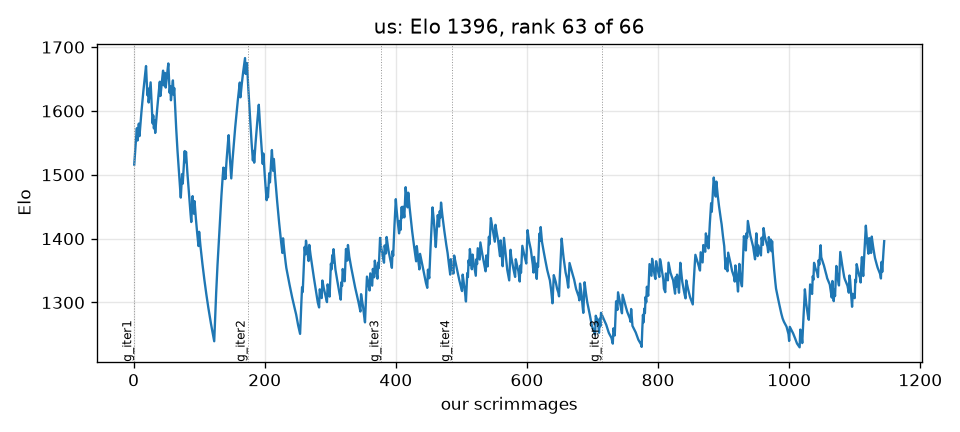
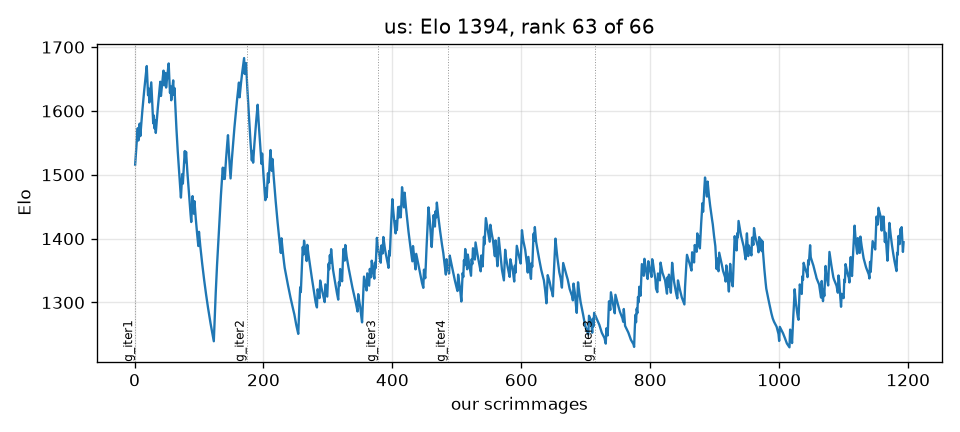
Block 24 logged
Claude-Session: https://claude.ai/code/session_01CTUHPRaZ9DbYUkpWKYf2Y2

diff --git a/BENCHMARK.md b/BENCHMARK.md
@@ -61,7 +61,7 @@ every recorded block; the tier is the most recent build's record against that op
 | `EmaPajic.Mark3` | EmaPajic_Battlecode-2020 (c060a22) | - | - | untested |  |
 | `EmaPajic.Mark4` | EmaPajic_Battlecode-2020 (c060a22) | - | - | untested |  |
 | `EmaPajic.Mark5` | EmaPajic_Battlecode-2020 (c060a22) | - | - | untested |  |
-| `EmaPajic.Qualifications` | EmaPajic_Battlecode-2020 (c060a22) | 0 | 12 | locked | 20 0 15 0 |
+| `EmaPajic.Qualifications` | EmaPajic_Battlecode-2020 (c060a22) | 0 | 12 | locked | 20 0 20 0 |
 | `EmaPajic.SeedingBot` | EmaPajic_Battlecode-2020 (c060a22) | - | - | untested |  |
 | `GabrielDWu.basicbot` | GabrielDWu_blezers-battlecode2020 (c0283f8) | - | - | untested |  |
 | `GabrielDWu.blezerbot` | GabrielDWu_blezers-battlecode2020 (c0283f8) | - | - | untested |  |
@@ -79,7 +79,7 @@ every recorded block; the tier is the most recent build's record against that op
 | `IvanGeffner.dronecrunchplus` | IvanGeffner_battlecode2020 (bc7dbca) | - | - | untested |  |
 | `IvanGeffner.ecoplayer` | IvanGeffner_battlecode2020 (bc7dbca) | - | - | untested |  |
 | `IvanGeffner.ecoplus` | IvanGeffner_battlecode2020 (bc7dbca) | - | - | untested |  |
-| `IvanGeffner.finalbota` | IvanGeffner_battlecode2020 (bc7dbca) | 18 | 17 | locked | 0 8 11 18 |
+| `IvanGeffner.finalbota` | IvanGeffner_battlecode2020 (bc7dbca) | 18 | 17 | locked | 0 8 12 18 |
 | `IvanGeffner.finalbotb` | IvanGeffner_battlecode2020 (bc7dbca) | - | - | untested |  |
 | `IvanGeffner.finalbotc` | IvanGeffner_battlecode2020 (bc7dbca) | - | - | untested |  |
 | `IvanGeffner.landscaperop` | IvanGeffner_battlecode2020 (bc7dbca) | - | - | untested |  |
@@ -170,11 +170,11 @@ every recorded block; the tier is the most recent build's record against that op
 | `benzyx.espada` | benzyx_bc20-waterloo (05df2e7) | - | - | untested |  |
 | `benzyx.firstplayer` | benzyx_bc20-waterloo (05df2e7) | - | - | untested |  |
 | `benzyx.kurobot` | benzyx_bc20-waterloo (05df2e7) | - | - | untested |  |
-| `benzyx.seeding` | benzyx_bc20-waterloo (05df2e7) | 40 | 15 | target | 25 17 64 40 |
+| `benzyx.seeding` | benzyx_bc20-waterloo (05df2e7) | 40 | 15 | target | 25 17 62 40 |
 | `benzyx.tortuga` | benzyx_bc20-waterloo (05df2e7) | - | - | untested |  |
 | `charboltron.master_player` | charboltron_pdx_battlecode_2020_team_11 (f78f1e3) | - | - | untested |  |
 | `charboltron.team11newbot` | charboltron_pdx_battlecode_2020_team_11 (f78f1e3) | 100 | 1 | peer(>90 once) | 100 |
-| `cormackikkert.whyPermutator` | cormackikkert_battlecode2020 (4d230c4) | 40 | 15 | target | 25 17 39 40 |
+| `cormackikkert.whyPermutator` | cormackikkert_battlecode2020 (4d230c4) | 40 | 15 | target | 25 17 38 40 |
 | `cormackikkert.whyPermutatorOld` | cormackikkert_battlecode2020 (4d230c4) | - | - | untested |  |
 | `cosimogonnelli.Team3player` | cosimogonnelli_CS454-554-SE (d7dc657) | 80 | 5 | peer | 80 |
 | `cs454-w20-team3.oldbot` | cs454-w20-team3_team3-bot (502c334) | - | - | untested |  |
@@ -202,7 +202,7 @@ every recorded block; the tier is the most recent build's record against that op
 | `kylittle.deliriumv1` | kylittle_DeliriumBattlecode (17a94dd) | - | - | untested |  |
 | `kylittle.qualsbot` | kylittle_DeliriumBattlecode (17a94dd) | - | - | untested |  |
 | `kylittle.qualsbot2` | kylittle_DeliriumBattlecode (17a94dd) | 100 | 1 | peer(>90 once) | 100 |
-| `laurenschneider.pdx_team_one` | laurenschneider_battlecode20-PDXTeamOne (2965376) | 14 | 14 | locked | 0 50 38 14 |
+| `laurenschneider.pdx_team_one` | laurenschneider_battlecode20-PDXTeamOne (2965376) | 14 | 14 | locked | 0 50 41 14 |
 | `lfchain.bigBudsBot` | lfchain_Battlecode2020 (b026153) | 100 | 1 | peer(>90 once) | 100 |
 | `lfchain.fBot` | lfchain_Battlecode2020 (b026153) | - | - | untested |  |
 | `lfchain.jBot` | lfchain_Battlecode2020 (b026153) | - | - | untested |  |
@@ -245,7 +245,7 @@ every recorded block; the tier is the most recent build's record against that op
 | `mvpatel2000.oldhades` | mvpatel2000_Battlecode2020 (554943e) | - | - | untested |  |
 | `mvpatel2000.poseidon` | mvpatel2000_Battlecode2020 (554943e) | - | - | untested |  |
 | `mvpatel2000.quail` | mvpatel2000_Battlecode2020 (554943e) | - | - | untested |  |
-| `mvpatel2000.qual` | mvpatel2000_Battlecode2020 (554943e) | 13 | 15 | locked | 0 8 27 13 |
+| `mvpatel2000.qual` | mvpatel2000_Battlecode2020 (554943e) | 13 | 15 | locked | 0 8 25 13 |
 | `mvpatel2000.qualAttacc` | mvpatel2000_Battlecode2020 (554943e) | - | - | untested |  |
 | `mvpatel2000.qualNoAtacc` | mvpatel2000_Battlecode2020 (554943e) | - | - | untested |  |
 | `mvpatel2000.seeding` | mvpatel2000_Battlecode2020 (554943e) | - | - | untested |  |
@@ -279,10 +279,10 @@ every recorded block; the tier is the most recent build's record against that op
 | `poortho.rush` | poortho_battlecode-2020 (ebbd61e) | - | - | untested |  |
 | `poortho.rush_bot` | poortho_battlecode-2020 (ebbd61e) | - | - | untested |  |
 | `poortho.stable_miner1` | poortho_battlecode-2020 (ebbd61e) | - | - | untested |  |
-| `poortho.stable_seeding_bot` | poortho_battlecode-2020 (ebbd61e) | 31 | 16 | target | 0 17 18 31 |
+| `poortho.stable_seeding_bot` | poortho_battlecode-2020 (ebbd61e) | 31 | 16 | target | 0 17 16 31 |
 | `ps789.dennisTestPlayer` | ps789_AZBattlecode (f1d54ab) | - | - | untested |  |
 | `ps789.phillipTestPlayer` | ps789_AZBattlecode (f1d54ab) | - | - | untested |  |
-| `ronniesong0809.finalbota` | ronniesong0809_battlecode20-RADS (1cee065) | 7 | 15 | locked | 0 18 17 7 |
+| `ronniesong0809.finalbota` | ronniesong0809_battlecode20-RADS (1cee065) | 7 | 15 | locked | 0 18 16 7 |
 | `ronniesong0809.team4enemy` | ronniesong0809_battlecode20-RADS (1cee065) | - | - | untested |  |
 | `ronniesong0809.team4player` | ronniesong0809_battlecode20-RADS (1cee065) | - | - | untested |  |
 | `rsandzimier.PlayerAlpha` | rsandzimier_battlecode2020 (8d856c3) | - | - | untested |  |
@@ -292,7 +292,7 @@ every recorded block; the tier is the most recent build's record against that op
 | `rzhan11.kryptonite` | rzhan11_Battlecode2020 (3cc4b50) | - | - | untested |  |
 | `rzhan11.landscaper_rush_bot` | rzhan11_Battlecode2020 (3cc4b50) | - | - | untested |  |
 | `rzhan11.orig_rush_bot` | rzhan11_Battlecode2020 (3cc4b50) | - | - | untested |  |
-| `rzhan11.quals_bot` | rzhan11_Battlecode2020 (3cc4b50) | 12 | 16 | locked | 0 17 3 12 |
+| `rzhan11.quals_bot` | rzhan11_Battlecode2020 (3cc4b50) | 12 | 16 | locked | 0 17 6 12 |
 | `rzhan11.rush_bot` | rzhan11_Battlecode2020 (3cc4b50) | - | - | untested |  |
 | `rzhan11.seeding` | rzhan11_Battlecode2020 (3cc4b50) | - | - | untested |  |
 | `rzhan11.sprint` | rzhan11_Battlecode2020 (3cc4b50) | - | - | untested |  |
@@ -309,7 +309,7 @@ every recorded block; the tier is the most recent build's record against that op
 | `uvafan.v12_quals_bot` | uvafan_bc20 (86fe290) | - | - | untested |  |
 | `uvafan.v12_quals_bot_tuned` | uvafan_bc20 (86fe290) | - | - | untested |  |
 | `uvafan.v13_post_quals` | uvafan_bc20 (86fe290) | - | - | untested |  |
-| `uvafan.v14_final_bot` | uvafan_bc20 (86fe290) | 0 | 14 | locked | 0 8 0 0 |
+| `uvafan.v14_final_bot` | uvafan_bc20 (86fe290) | 0 | 14 | locked | 0 8 3 0 |
 | `uvafan.v14_final_bot_tuned` | uvafan_bc20 (86fe290) | - | - | untested |  |
 | `uvafan.v2_better_turtle` | uvafan_bc20 (86fe290) | - | - | untested |  |
 | `uvafan.v3_lattice` | uvafan_bc20 (86fe290) | - | - | untested |  |
@@ -325,7 +325,7 @@ every recorded block; the tier is the most recent build's record against that op
 | `willBoyd8.droideka` | willBoyd8_BattleDroid (4b1d4ad) | - | - | untested |  |
 | `willBoyd8.empire` | willBoyd8_BattleDroid (4b1d4ad) | - | - | untested |  |
 | `willBoyd8.mouse` | willBoyd8_BattleDroid (4b1d4ad) | - | - | untested |  |
-| `winkelmantanner.tannerplayer` | winkelmantanner_battlecode2020_the-levee-builders (7f49f11) | 23 | 13 | target | 0 25 19 23 |
+| `winkelmantanner.tannerplayer` | winkelmantanner_battlecode2020_the-levee-builders (7f49f11) | 23 | 13 | target | 0 25 20 23 |
 | `wpine215.stardustv1` | wpine215_battlecode (d570d57) | - | - | untested |  |
 | `wpine215.stardustv2` | wpine215_battlecode (d570d57) | 65 | 17 | peer | 0 30 46 65 |
 | `yaonam.Robot_1` | yaonam_battlecode2020 (bb363f5) | 62 | 8 | peer | 62 |

diff --git a/progress/ELO.md b/progress/ELO.md
@@ -1,20 +1,20 @@
 # Elo ladder
 
-1145 scrimmages (ours only); K=32 from 1500; our team is **us**: rank 63 of 66 rated bots, Elo 1396, 1145 games; 0 bots not yet met.
+1193 scrimmages (ours only); K=32 from 1500; our team is **us**: rank 63 of 66 rated bots, Elo 1394, 1193 games; 0 bots not yet met.
 
 | rank | bot | Elo | games | W-L (theirs) |
 |---|---|---|---|---|
-| 1 | uvafan.v14_final_bot | 1777 | 64 | 63-1 |
-| 2 | awesomelemonade.citricsky | 1773 | 71 | 69-2 |
-| 3 | AngusRitossa.newbot | 1764 | 67 | 64-3 |
-| 4 | rzhan11.quals_bot | 1725 | 66 | 61-5 |
-| 5 | IvanGeffner.finalbota | 1675 | 71 | 63-8 |
-| 6 | EmaPajic.Qualifications | 1656 | 68 | 61-7 |
-| 7 | ronniesong0809.finalbota | 1640 | 71 | 61-10 |
-| 8 | poortho.stable_seeding_bot | 1602 | 65 | 52-13 |
-| 9 | winkelmantanner.tannerplayer | 1566 | 61 | 49-12 |
-| 10 | mvpatel2000.qual | 1565 | 72 | 58-14 |
-| 11 | battlecode20-team4.finalbota | 1519 | 67 | 52-15 |
+| 1 | awesomelemonade.citricsky | 1785 | 74 | 72-2 |
+| 2 | AngusRitossa.newbot | 1777 | 71 | 68-3 |
+| 3 | uvafan.v14_final_bot | 1755 | 67 | 65-2 |
+| 4 | rzhan11.quals_bot | 1696 | 67 | 61-6 |
+| 5 | IvanGeffner.finalbota | 1662 | 74 | 65-9 |
+| 6 | ronniesong0809.finalbota | 1660 | 75 | 65-10 |
+| 7 | poortho.stable_seeding_bot | 1630 | 69 | 56-13 |
+| 8 | EmaPajic.Qualifications | 1605 | 70 | 61-9 |
+| 9 | mvpatel2000.qual | 1593 | 75 | 61-14 |
+| 10 | winkelmantanner.tannerplayer | 1562 | 64 | 51-13 |
+| 11 | battlecode20-team4.finalbota | 1533 | 71 | 55-16 |
 | 12 | ovimura.welovesoup | 1491 | 1 | 0-1 |
 | 13 | TeamSerpentine.eendagsvliegjes | 1491 | 1 | 0-1 |
 | 14 | orionquick.aldebaranplayer | 1491 | 1 | 0-1 |
@@ -51,22 +51,22 @@
 | 45 | charboltron.team11newbot | 1488 | 1 | 0-1 |
 | 46 | djkeyes.addingComm | 1488 | 1 | 0-1 |
 | 47 | ARognes.FinalSubmission | 1487 | 5 | 2-3 |
-| 48 | laurenschneider.pdx_team_one | 1487 | 69 | 46-23 |
-| 49 | cosimogonnelli.Team3player | 1480 | 5 | 1-4 |
-| 50 | yaonam.Robot_1 | 1474 | 8 | 3-5 |
-| 51 | VinayaBhat.team10pdx | 1472 | 7 | 2-5 |
-| 52 | Tim-gubski.AngryWaffleMaker | 1463 | 7 | 2-5 |
-| 53 | denver-blake.sprint | 1454 | 5 | 0-5 |
-| 54 | KyleHassold.sprintbot | 1448 | 5 | 0-5 |
+| 48 | cosimogonnelli.Team3player | 1480 | 5 | 1-4 |
+| 49 | yaonam.Robot_1 | 1474 | 8 | 3-5 |
+| 50 | VinayaBhat.team10pdx | 1472 | 7 | 2-5 |
+| 51 | Tim-gubski.AngryWaffleMaker | 1463 | 7 | 2-5 |
+| 52 | denver-blake.sprint | 1454 | 5 | 0-5 |
+| 53 | KyleHassold.sprintbot | 1448 | 5 | 0-5 |
+| 54 | laurenschneider.pdx_team_one | 1447 | 71 | 46-25 |
 | 55 | J-J-Chen.player | 1441 | 5 | 0-5 |
 | 56 | AllenWang314.bot1 | 1435 | 5 | 0-5 |
-| 57 | GabrielDWu.buildawall2 | 1432 | 5 | 0-5 |
-| 58 | cs454-w20-team3.playbot | 1431 | 10 | 4-6 |
-| 59 | A9ine.potato | 1424 | 5 | 0-5 |
-| 60 | 9mAhmad.lostincoordinates | 1412 | 5 | 0-5 |
-| 61 | cormackikkert.whyPermutator | 1409 | 64 | 42-22 |
+| 57 | cormackikkert.whyPermutator | 1433 | 68 | 45-23 |
+| 58 | GabrielDWu.buildawall2 | 1432 | 5 | 0-5 |
+| 59 | cs454-w20-team3.playbot | 1431 | 10 | 4-6 |
+| 60 | A9ine.potato | 1424 | 5 | 0-5 |
+| 61 | 9mAhmad.lostincoordinates | 1412 | 5 | 0-5 |
 | 62 | 9mAhmad.MahinBot | 1398 | 5 | 0-5 |
-| 63 | **us** | 1396 | 1145 | 310-835 |
+| 63 | **us** | 1394 | 1193 | 324-869 |
 | 64 | mhahn2003.nonrush | 1387 | 21 | 9-12 |
-| 65 | benzyx.seeding | 1338 | 59 | 32-27 |
-| 66 | wpine215.stardustv2 | 1336 | 66 | 36-30 |
+| 65 | benzyx.seeding | 1351 | 63 | 34-29 |
+| 66 | wpine215.stardustv2 | 1346 | 70 | 38-32 |

diff --git a/TRAINING_LOG.md b/TRAINING_LOG.md
@@ -844,6 +844,10 @@ the soup memory never fills before r300 (no report, no extra miner) and the unfe
 drags the ring's minimum to 958 vs 1352, because the seats' equalising rule pours the whole ring's
 dirt into it after r300. Not gated; ledger. `src/bot` back to g_iter3.
 
+## Block 24 -- g_iter3 against the challenge pool (run block24, 2026-09-24)
+
+48 games: **14/48 (29%)**; cumulative for g_iter3 134/588 (22.8%).
+
 ## Block 23 -- g_iter3 against the challenge pool (run block23, 2026-09-24)
 
 48 games: **14/48 (29%)**; cumulative for g_iter3 120/540 (22.2%).
